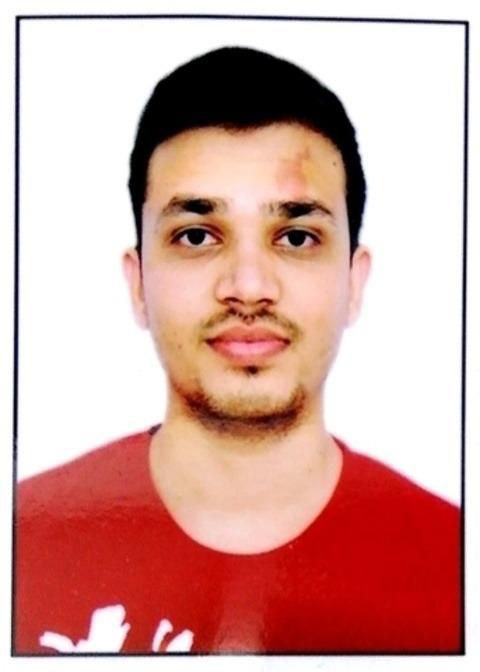
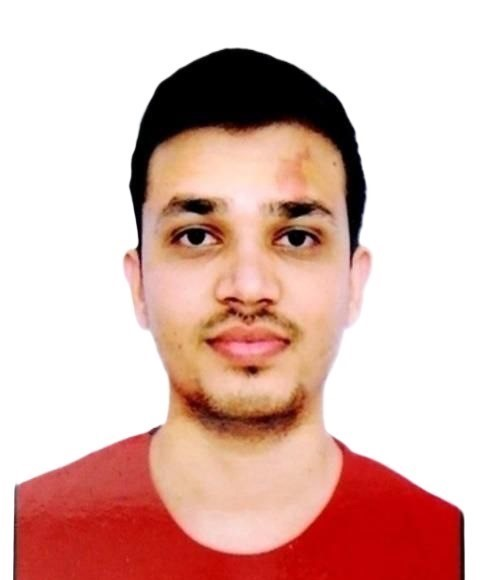
final changes

diff --git a/src/components/SuccessStories.tsx b/src/components/SuccessStories.tsx
@@ -7,13 +7,9 @@ import {
   CardContent,
   Avatar,
   useTheme,
-  Chip,
 } from "@mui/material";
-import { motion, useAnimation, useMotionValue, useTransform, useSpring, useScroll } from "framer-motion";
-import Dialog from '@mui/material/Dialog';
-import DialogTitle from '@mui/material/DialogTitle';
-import DialogContent from '@mui/material/DialogContent';
-import DialogActions from '@mui/material/DialogActions';
+import { motion, useAnimation, useMotionValue, useTransform, useScroll } from "framer-motion";
+
 import Button from '@mui/material/Button';
 
 const successStories = [
@@ -21,25 +17,28 @@ const successStories = [
     name: "Aditya Gokhale",
     achievement: "JEE Advanced AIR 1284 (2025)",
     story: "I joined Edufix Career Academy for my JEE preparation. All the teachers supported and guided me at every step of my journey. My doubts were always resolved, and the concepts were explained clearly and thoroughly. I would like to thank my teachers and my parents for choosing Edufix.",
-    photo: "/Aditya_Gokhale.jpeg",
+    photo: "/Aditya_Gokhale2.jpeg",
     course: "JEE Main & Advanced",
     year: "2025",
+    photoYOffset: 0,
   },
   {
     name: "Harshil Agarwal",
-    achievement: "JEE Advanced 2224 (99.8%ile), IIT Bombay, ESADE",
+    achievement: "JEE Advanced (99.8%ile), IIT Bombay, ESADE",
     story: "Studying Mathematics and Chemistry at Edufix played a pivotal role in my JEE preparation journey. Abhishek sir's and Vikas sir's deep subject knowledge and proper guidance helped me strengthen my fundamentals and develop the problem-solving mindset needed to crack JEE. I'll always be grateful for the clarity, discipline and confidence the learning environment at Edufix instilled in me.",
     photo: "/Harshil_Agarwal.jpeg",
     course: "JEE Main & Advanced",
     year: "2022",
+    photoYOffset: 0,
   },
   {
     name: "Murtuza Shaikh",
-    achievement: "JEE Mains 99.1%ile, IIIT Gwalior",
+    achievement: "JEE Mains (99.1%ile), IIIT Gwalior",
     story: "I joined Edufix Career Academy for Mathematics coaching for JEE 2023. The personalized guidance by Abhishek Sir helped me focus on weak areas, build strong problem-solving skills, and improve through mock test analysis. Grateful for the support and experience at Edufix!",
     photo: "/murtuza_shaikh.jpeg",
     course: "JEE Main & Advanced",
     year: "2023",
+    photoYOffset: 0,
   },
   {
     name: "Shlok Mulye",
@@ -48,6 +47,7 @@ const successStories = [
     photo: "/Shlok_Mulye.jpeg",
     course: "JEE Main & Advanced",
     year: "2020",
+    photoYOffset: 0,
   },
   {
     name: "Sneharghya Ghosh",
@@ -56,30 +56,34 @@ const successStories = [
     photo: "/Sneharghya_ghosh.jpeg",
     course: "JEE Main & Advanced",
     year: "2018",
+    photoYOffset: 0,
   },
   {
     name: "Kushal Trivedi",
-    achievement: "IIIT Gwalior, JEE Mains 98.98%ile (99% in Maths)",
+    achievement: "IIIT Gwalior, JEE Mains (98.98%ile, 99% in Maths)",
     story: "I joined Abhishek sir's classes for Maths (/Edufix) in 2022 (12th) for JEE Mains and Advanced. His guidance helped me to deepen and sharpen my understanding about Maths along with intensive practice, paper solving and doubt clearance as well. His personal attention to us added to the good experience as well.",
     photo: "/Kushal_Trivedi.jpeg",
     course: "JEE Main & Advanced",
     year: "2023",
+    photoYOffset: 0,
   },
   {
     name: "Daksh",
-    achievement: "IBDP Year 1, OWIS Singapore",
+    achievement: "IBDP , OWIS Singapore",
     story: "Edufix Career Academy has played a significant role in shaping my academic journey. The tutors were not only highly knowledgeable in their subjects but also incredibly supportive throughout the entire process. Their guidance gave me the confidence to pursue my goals and achieve targets I once thought were out of reach.",
     photo: "/Daksh.jpeg",
     course: "IBDP",
     year: "2026",
+    photoYOffset: 0,
   },
   {
     name: "Sanyam Bhansali",
-    achievement: "7s in IBDP, Oberoi International School OGC",
+    achievement: "IBDP, Oberoi International School OGC",
     story: "As an 11th grader going into 12th grade at Oberoi International School (OGC), pursuing the IB Diploma Programme, Edufix has played a major role in my academic success. With their expert guidance, I've consistently scored 7s in my subjects and topped my end-of-year exams. The teaching is concept-focused and incredibly effective—each topic is taught with clarity, supported by plenty of practice resources and help outside class whenever needed. My understanding has deepened, and my confidence has grown thanks to Edufix.",
     photo: "/Sanyam_Bhansali.jpeg",
     course: "IBDP",
     year: "2025",
+    photoYOffset: 0,
   },
 ];
 
@@ -264,6 +268,7 @@ const FlippableCard: React.FC<{
                       boxShadow: 2,
                       mb: 1.5,
                       background: theme.palette.background.paper,
+                      transform: `translateY(${story.photoYOffset || 0}px)`
                     }}
                   />
                 </motion.div>
@@ -414,7 +419,9 @@ const FlippableCard: React.FC<{
                 <Avatar
                   src={story.photo}
                   alt={story.name}
-                  sx={{ width: 80, height: 80, mb: 2, border: `3px solid ${theme.palette.primary.main}` }}
+                  sx={{ width: 80, height: 80, mb: 2,
+                     border: `3px solid ${theme.palette.primary.main}`, 
+                     transform: `translateY(${story.photoYOffset || 0}px)` }}
                 />
                 <Typography variant="h6" sx={{ fontWeight: 700, mb: 1, textAlign: 'center' }}>{story.name}</Typography>
                 <Typography variant="body2" color="text.secondary" sx={{ textAlign: 'center', mb: 1 }}>{story.course} | {story.year}</Typography>

diff --git a/src/components/TeamGrid.tsx b/src/components/TeamGrid.tsx
@@ -7,49 +7,50 @@ import {
   CardContent,
   Avatar,
   useTheme,
-  Chip,
-  IconButton,
 } from "@mui/material";
 import { motion, useAnimation } from "framer-motion";
-import LinkedInIcon from "@mui/icons-material/LinkedIn";
-import TwitterIcon from "@mui/icons-material/Twitter";
-import EmailIcon from "@mui/icons-material/Email";
 
 const teamMembers = [
   {
     name: "Abhishek Doyal (Founder)",
     role: "Mathematics",
-    bio: "12 years experience. IIT Bombay, Mechanical Engineering.",
+    experience: "Exp:12 years",
+    qualification: "IIT Bombay",
     photo: "/abhishek_doyal_teacher.jpg",
   },
   {
-    name: "Abhimanyu Pundeer (Cofounder)",
+    name: "Abhimanyu Pundeer (Co-founder)",
     role: "Physics",
-    bio: "8 years experience. Civil Engineering, IIT Bombay.",
+    experience: "Exp:8 years",
+    qualification: "IIT Bombay.",
     photo: "/Abhimanyu_Pundeer_teacher.jpg",
   },
   {
     name: "Vikas Doyal",
     role: "Chemistry",
-    bio: "10 years experience. Civil Engineering, IIT Bombay.",
+    experience: "Exp:10 years",
+    qualification: "IIT Bombay.",
     photo: "/vikas_dyal_teacher.jpg",
   },
   {
     name: "Varsha Suthar",
     role: "Biology",
-    bio: "2 years experience. MSc in Botany, JNVU.",
+    experience: "Exp:2 years",
+    qualification: "MSc, JNVU.",
     photo: "/Varsha_suthar_teacher.jpg",
   },
   {
     name: "Ramesh Kumar",
     role: "Mathematics",
-    bio: "2 years experience. B.Tech IIT Guwahati, M.Tech IIT Bombay.",
+    experience: "Exp:2 years",
+    qualification: "B.Tech IIT Guwahati, M.Tech IIT Bombay.",
     photo: "/Ramesh_kumar_teacher.jpg",
   },
   {
     name: "Himanshu Mishra",
     role: "Chemistry",
-    bio: "7 years experience. Mechanical Engineering, NIT Nagpur.",
+    experience: "Exp:7 years",
+    qualification: "NIT Nagpur.",
     photo: "/himanshu_teacher.jpg",
   },
 ];
@@ -184,12 +185,10 @@ const TeamGrid: React.FC = () => {
                  }}>
                   {member.name}
                 </Typography>
-                <Typography
-                  variant="body2"
-                  color={theme.palette.text.secondary}
-                  sx={{ mb: 2, display: 'block', whiteSpace: 'pre-line' }}
-                >
-                  {member.bio.split('. ').map((part, idx, arr) => idx === 0 && arr.length > 1 ? part + '.' + '\n' : part).join(' ')}
+                <Typography variant="body2" color={theme.palette.text.secondary} sx={{ mb: 2, display: 'block', whiteSpace: 'pre-line' }}>
+                  {member.experience}
+                  {"\n"}
+                  {member.qualification}
                 </Typography>
                 {/* <Box
                   sx={{

diff --git a/src/components/Footer.tsx b/src/components/Footer.tsx
@@ -15,6 +15,7 @@ import {
   Instagram as InstagramIcon,
   LinkedIn as LinkedInIcon,
 } from "@mui/icons-material";
+import { FaAddressCard } from "react-icons/fa";
 
 const Footer: React.FC = () => {
   const theme = useTheme();
@@ -108,10 +109,27 @@ const Footer: React.FC = () => {
                 </Link>
               </Box>
               <Box sx={{ display: 'flex', alignItems: 'center', gap: 1 }}>
-                <EmailIcon color="primary" />
-                <Link href="mailto:abhishekdoyal2010@gmail.com" color="inherit" underline="hover">
-                  abhishekdoyal2010@gmail.com
+                <PhoneIcon color="main" />
+                <Link href="tel:+919588261726" color="inherit" underline="hover">
+                  +91 84509 32351
                 </Link>
+              </Box>
+              <Box sx={{ display: 'flex', alignItems: 'center', gap: 1 }}>
+                <EmailIcon color="primary" />
+                <Link href="mailto:edufixcareeracademy@gmail.com" color="inherit" underline="hover">
+                  edufixcareeracademy@gmail.com
+                </Link>
+              </Box>
+              <Box sx={{ display: 'flex', alignItems: 'center', gap: 1 }}>
+                <EmailIcon color="main" />
+                <Link href="mailto:info@edufixcareeracademy.com" color="inherit" underline="hover">
+                  info@edufixcareeracademy.com
+                </Link>
+              </Box>
+              
+              <Box sx={{ display: 'flex', alignItems: 'center', gap: 1 }}>
+                
+                216, Lake Primeros shopping complex, Chandivali 400072
               </Box>
             </Box>
           </Box>

diff --git a/src/components/TestimonialsCarousel.tsx b/src/components/TestimonialsCarousel.tsx
@@ -19,20 +19,20 @@ const testimonials = [
     name: "Aditya Gokhale",
     quote: "All the teachers supported and guided me at every step of my journey. My doubts were always resolved, and the concepts were explained clearly and thoroughly. I would like to thank my teachers and my parents for choosing Edufix.",
     score: "JEE Advanced AIR 1284 (2025)",
-    photo: "/Aditya_Gokhale.jpeg",
+    photo: "/Aditya_Gokhale2.jpeg",
     rating: 5,
   },  
   {
     name: "Daksh",
     quote: "The tutors were not only highly knowledgeable in their subjects but also incredibly supportive throughout the entire process. Their guidance gave me the confidence to pursue my goals and achieve targets I once thought were out of reach.",
-    score: "IBDP Year 1, OWIS Singapore",
+    score: "IBDP, OWIS Singapore",
     photo: "/Daksh.jpeg",
     rating: 5,
   },
   {
     name: "Sanyam Bhansali",
     quote: "With their expert guidance, I've consistently scored 7s in my subjects and topped my end-of-year exams. The teaching is concept-focused and incredibly effective—each topic is taught with clarity, supported by plenty of practice resources and help outside class whenever needed.",
-    score: "7s in IBDP, Oberoi International School OGC",
+    score: "Oberoi International School OGC",
     photo: "/Sanyam_Bhansali.jpeg",
     rating: 5,
   },

diff --git a/src/components/Navbar.tsx b/src/components/Navbar.tsx
@@ -26,9 +26,9 @@ const Navbar: React.FC<{ mode: 'light' | 'dark'; toggleTheme: () => void }> = ({
 
   const menuItems = [
     { text: 'About', href: '#about' },
-    { text: 'Courses', href: '#courses' },
-    { text: 'Testimonials', href: '#testimonials' },
+    { text: 'Courses', href: '#courses' },    
     { text: 'Team', href: '#team' },
+    { text: 'Testimonials', href: '#testimonials' },
     { text: 'Test Series', href: 'https://edufix.collegedoors.com/' },
   ];
 
@@ -87,7 +87,7 @@ const Navbar: React.FC<{ mode: 'light' | 'dark'; toggleTheme: () => void }> = ({
             fontWeight: 'bold',
           }}
         >
-          <img src="edufix_logo.svg" alt="" 
+          <img src="logo_lat.svg" alt="" 
           style={{ width: '1.7rem', height: '1.5rem',
            }} /> Edufix
 

diff --git a/src/components/AboutSection.tsx b/src/components/AboutSection.tsx
@@ -119,7 +119,11 @@ const AboutSection: React.FC = () => {
                 fontSize: { xs: "2rem", md: "2.5rem" },
                 fontWeight: 700,
                 mb: 2,
-                color: theme.palette.text.primary,
+                background: `linear-gradient(90deg, #1976d2 0%, #9c27b0 100%)`,
+                WebkitBackgroundClip: 'text',
+                WebkitTextFillColor: 'transparent',
+                backgroundClip: 'text',
+                textFillColor: 'transparent',
               }}
             >
               Why EduFix Career Academy?

diff --git a/src/components/MetricsSection.tsx b/src/components/MetricsSection.tsx
@@ -20,8 +20,8 @@ const metrics = [
   {
     icon: FaGraduationCap,
     value: 5,
-    label: "Years of Academic Excellence",
-    suffix: "+",
+    label: "Proven Excellence",
+    suffix: "+Yr",
     color: "#2e7d32",
   },
   {
@@ -34,7 +34,7 @@ const metrics = [
   {
     icon: FaStar,
     value: 6,
-    label: "Workshops on Study Skills",
+    label: "Workshops",
     suffix: "+",
     color: "#ed6c02",
   },
